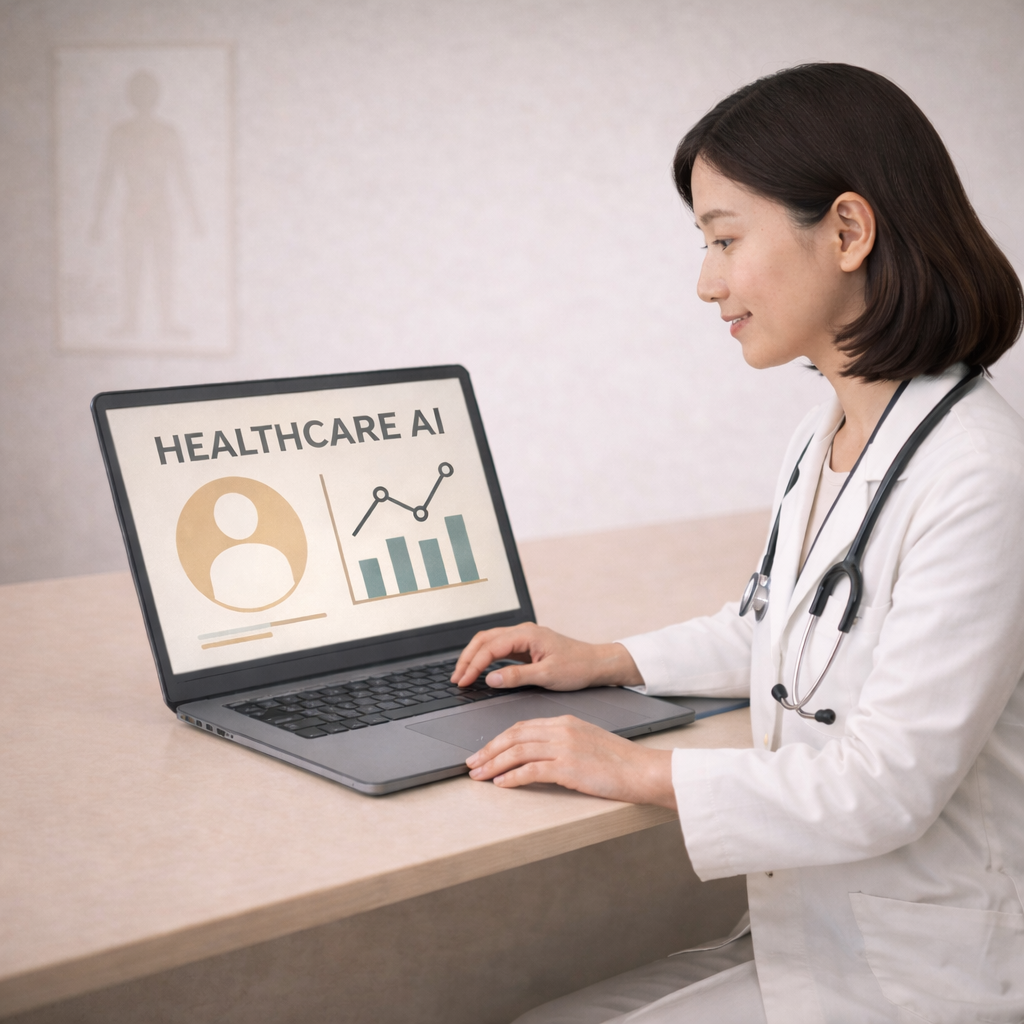
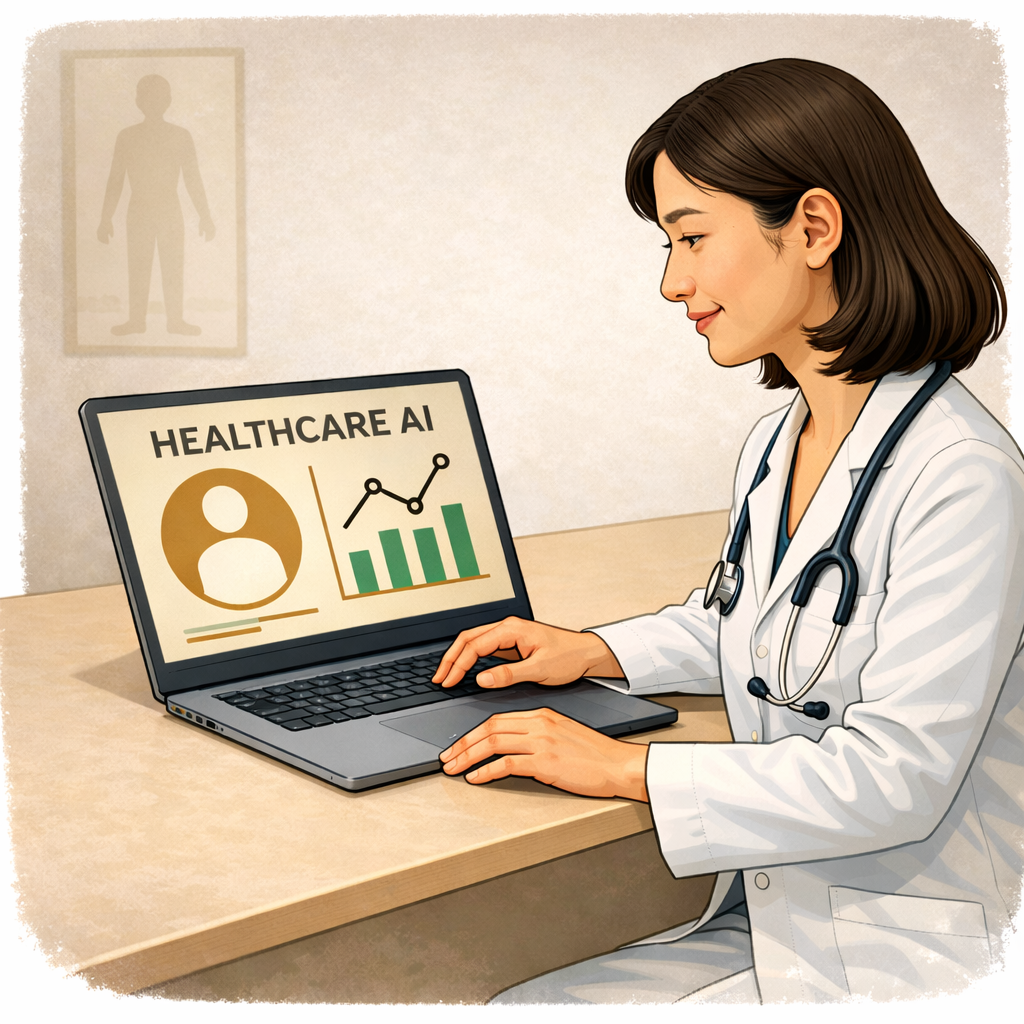
feat: 이미지 크기 조정 및 캡션 추가
- 첫 페이지 hero 이미지 크기 20% 축소 (780px → 624px)
- 첫 페이지 Interested in joining us 이미지 크기 20% 축소 (215px → 172px)
- Research 페이지 Human Assistive AI 이미지 확대 (scale-150) 및 위치 조정 (60% center)
- Research 페이지 모든 이미지 아래 '일러스트레이션 예시' 캡션 추가
- Research 페이지 유튜브 동영상 아래 '실제 학습 시뮬레이션 장면' 캡션 추가
- 이미지 파일 업데이트

diff --git a/src/app/research/page.tsx b/src/app/research/page.tsx
@@ -592,16 +592,19 @@ export default function ResearchPage() {
                                         <>
                                             {/* 이미지 */}
                                             {area.image && (
-                                                <div className={cn(
-                                                    "aspect-square rounded-[32px] w-[52%] md:w-[85%] border border-gray-100 dark:border-gray-800 overflow-hidden bg-gray-50 dark:bg-[#111] shadow-2xl shadow-gray-200/50 dark:shadow-black relative",
-                                                )}>
-                                                    <Image
-                                                        src={area.image.startsWith('/') ? `${BASE_PATH}${area.image}` : area.image}
-                                                        alt={area.title}
-                                                        fill
-                                                        className="object-cover"
-                                                    />
-                                                </div>
+                                                <>
+                                                    <div className={cn(
+                                                        "aspect-square rounded-[32px] w-[52%] md:w-[85%] border border-gray-100 dark:border-gray-800 overflow-hidden bg-gray-50 dark:bg-[#111] shadow-2xl shadow-gray-200/50 dark:shadow-black relative",
+                                                    )}>
+                                                        <Image
+                                                            src={area.image.startsWith('/') ? `${BASE_PATH}${area.image}` : area.image}
+                                                            alt={area.title}
+                                                            fill
+                                                            className="object-cover"
+                                                        />
+                                                    </div>
+                                                    <p className="text-xs text-secondary">일러스트레이션 예시</p>
+                                                </>
                                             )}
                                             {/* YouTube 영상 */}
                                             <div className={cn(
@@ -615,22 +618,26 @@ export default function ResearchPage() {
                                                     allowFullScreen
                                                 />
                                             </div>
+                                            <p className="text-xs text-secondary">실제 학습 시뮬레이션 장면</p>
                                         </>
                                     ) : (
-                                        <div className={cn(
-                                            "aspect-square rounded-[32px] w-[52%] md:w-[85%] border border-gray-100 dark:border-gray-800 overflow-hidden bg-gray-50 dark:bg-[#111] shadow-2xl shadow-gray-200/50 dark:shadow-black relative",
-                                        )}>
-                                            <Image
-                                                src={area.image || `${BASE_PATH}/images/hero_bg_wom_v2.png`}
-                                                alt={area.title}
-                                                fill
-                                                className={cn(
-                                                    "object-cover",
-                                                    area.id === "assist_ai" && "scale-150"
-                                                )}
-                                                style={area.id === "assist_ai" ? { objectPosition: '80% center' } : undefined}
-                                            />
-                                        </div>
+                                        <>
+                                            <div className={cn(
+                                                "aspect-square rounded-[32px] w-[52%] md:w-[85%] border border-gray-100 dark:border-gray-800 overflow-hidden bg-gray-50 dark:bg-[#111] shadow-2xl shadow-gray-200/50 dark:shadow-black relative",
+                                            )}>
+                                                <Image
+                                                    src={area.image || `${BASE_PATH}/images/hero_bg_wom_v2.png`}
+                                                    alt={area.title}
+                                                    fill
+                                                    className={cn(
+                                                        "object-cover",
+                                                        area.id === "assist_ai" && "scale-150"
+                                                    )}
+                                                    style={area.id === "assist_ai" ? { objectPosition: '60% center' } : undefined}
+                                                />
+                                            </div>
+                                            <p className="text-xs text-secondary">일러스트레이션 예시</p>
+                                        </>
                                     )}
                                 </div>
 

diff --git a/src/app/page.tsx b/src/app/page.tsx
@@ -27,14 +27,19 @@ export default function Home() {
 
             {/* Subtle Hero Visual */}
             {/* Subtle Hero Visual */}
-            <div className="relative mt-16 w-full max-w-[780px] h-[240px] md:h-[480px] bg-gradient-to-tr from-gray-100 to-gray-50 dark:from-[#111] dark:to-black rounded-3xl overflow-hidden shadow-2xl opacity-0 animate-fade-in-up" style={{ animationDelay: "0.6s" }}>
-              <Image
-                src={`${BASE_PATH}/images/hero_bg_wom_v2.png`}
-                alt="H-Lab Hero Visual"
-                fill
-                className="object-cover transition-transform duration-700 hover:scale-105"
-                priority
-              />
+            <div className="mt-16 w-full max-w-[624px]">
+              <div className="relative w-full h-[192px] md:h-[384px] bg-gradient-to-tr from-gray-100 to-gray-50 dark:from-[#111] dark:to-black rounded-3xl overflow-hidden shadow-2xl opacity-0 animate-fade-in-up" style={{ animationDelay: "0.6s" }}>
+                <Image
+                  src={`${BASE_PATH}/images/hero_bg_wom_v2.png`}
+                  alt="H-Lab Hero Visual"
+                  fill
+                  className="object-cover transition-transform duration-700 hover:scale-105"
+                  priority
+                />
+              </div>
+              <p className="text-xs text-secondary mt-2 text-center opacity-0 animate-fade-in-up" style={{ animationDelay: "0.8s" }}>
+                일러스트레이션 예시
+              </p>
             </div>
           </div>
         </section>
@@ -108,7 +113,7 @@ export default function Home() {
               문의하기
             </Link>
             <div className="mt-12 flex justify-center">
-              <div className="relative w-full max-w-[215px] aspect-square bg-gradient-to-tr from-gray-100 to-gray-50 dark:from-[#111] dark:to-black rounded-3xl overflow-hidden shadow-2xl opacity-0 animate-fade-in-up" style={{ animationDelay: "0.6s" }}>
+              <div className="relative w-full max-w-[172px] aspect-square bg-gradient-to-tr from-gray-100 to-gray-50 dark:from-[#111] dark:to-black rounded-3xl overflow-hidden shadow-2xl opacity-0 animate-fade-in-up" style={{ animationDelay: "0.6s" }}>
                 <Image
                   src={`${BASE_PATH}/images/heli_pr_back.png`}
                   alt="Heli PR Back"
